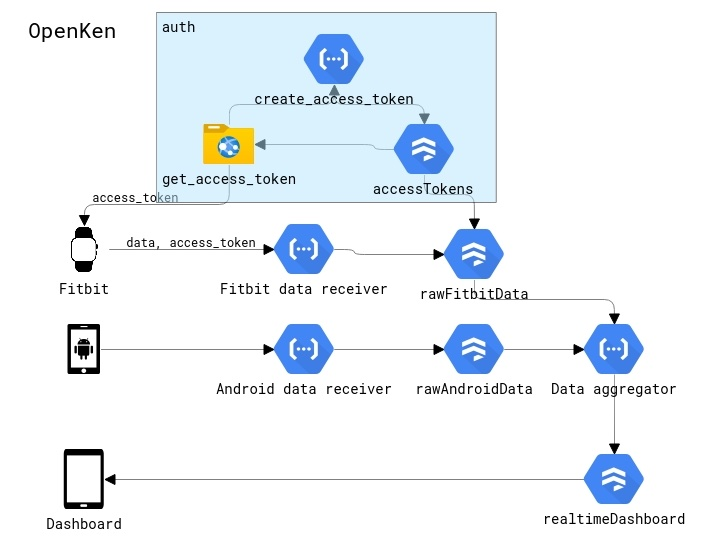
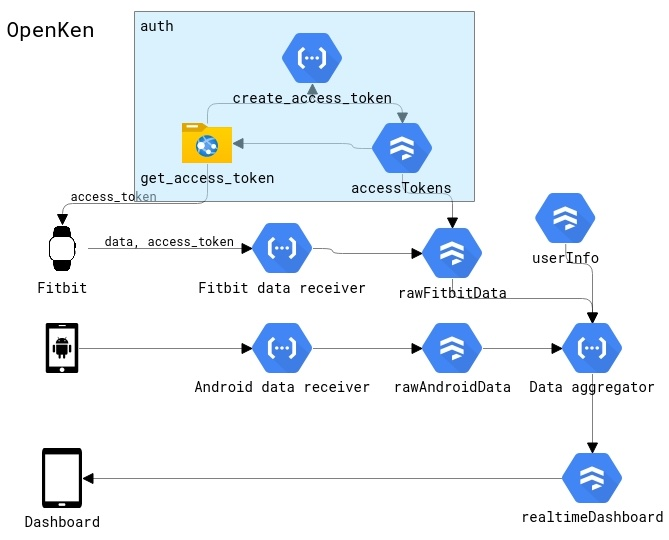
Adds basic description of the location fuzzer in README.

diff --git a/README.md b/README.md
@@ -29,12 +29,14 @@ In order to identify the user, we made a simple custom authentication solution:
 
 Several Cloud Functions, triggering on new writes of raw data (e.g rawFitbitData), aggregates the last 30 minutes of data for a user and writes it in the Firestore collection realtimeDashboard. This is the data backing the realtime dashboard.
 
-Aggregated data include:
+Aggregated data includes:
 
 - Realtime heart rate
 - Activity state (asleep, walking, running, etc).
-- (to be implemented) Current location
+- Past 10 minutes of location
 - (to be implemented) Activity level plots for the past 30 minutes.
+
+To retain some control over privacy, the aggregator performs some crude fuzzing of location data; users can register "sensitive" locations in the userInfo table, which, if a location data falls inside of, gets smeared out in the aggregated data.
 
 ## Ken Peeker (web dashboard)
 
